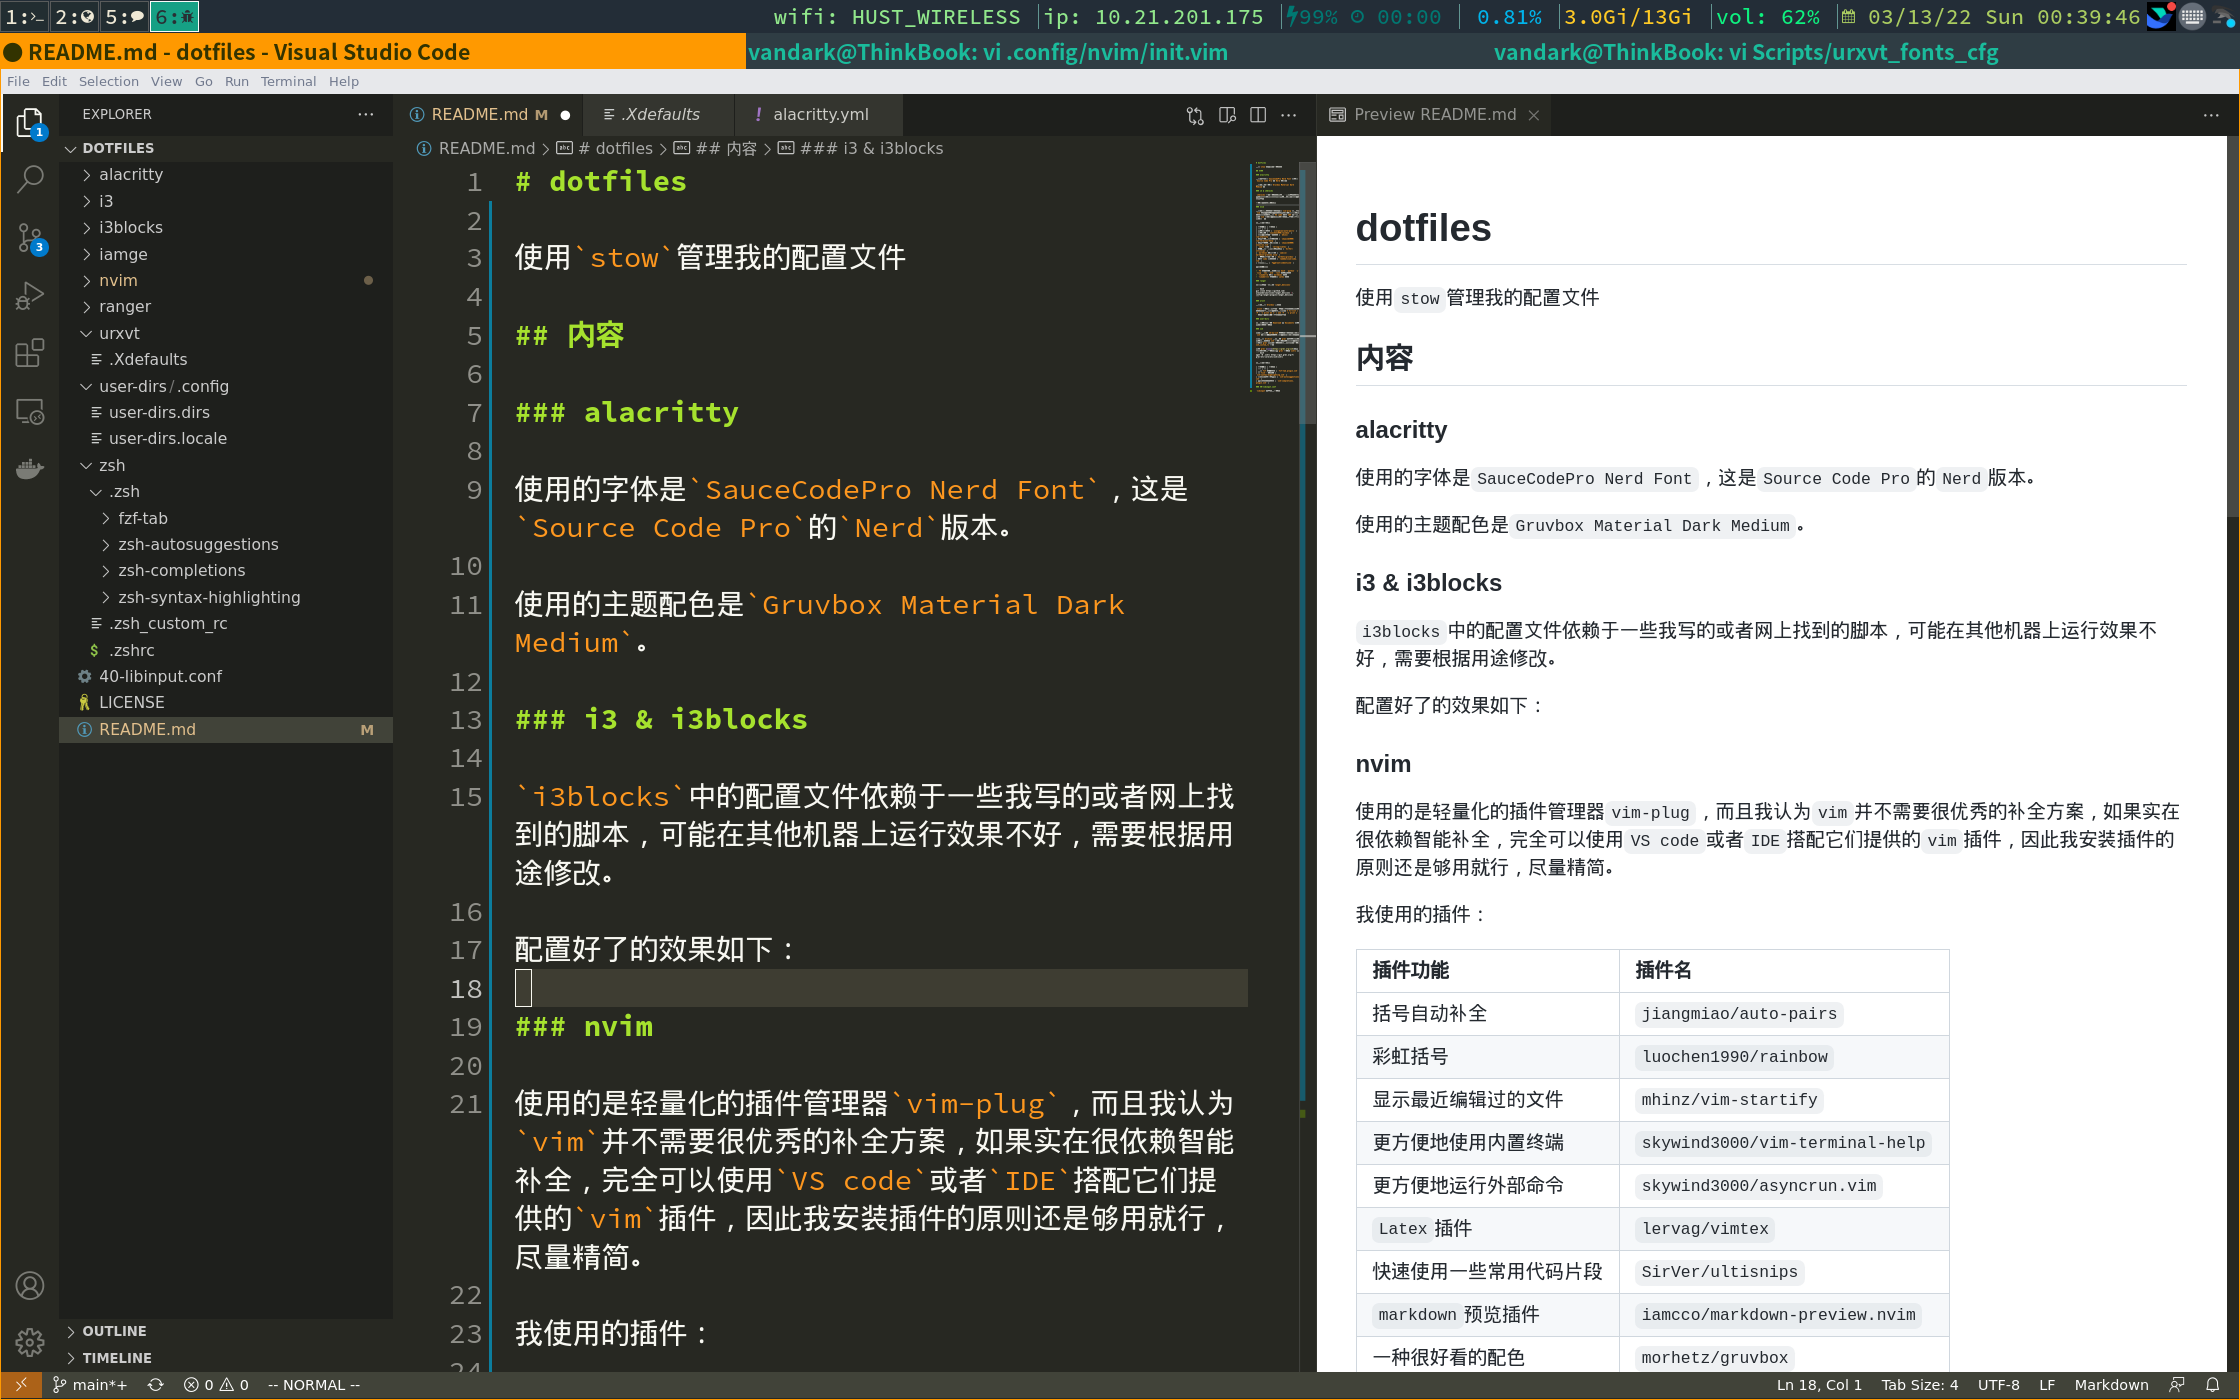
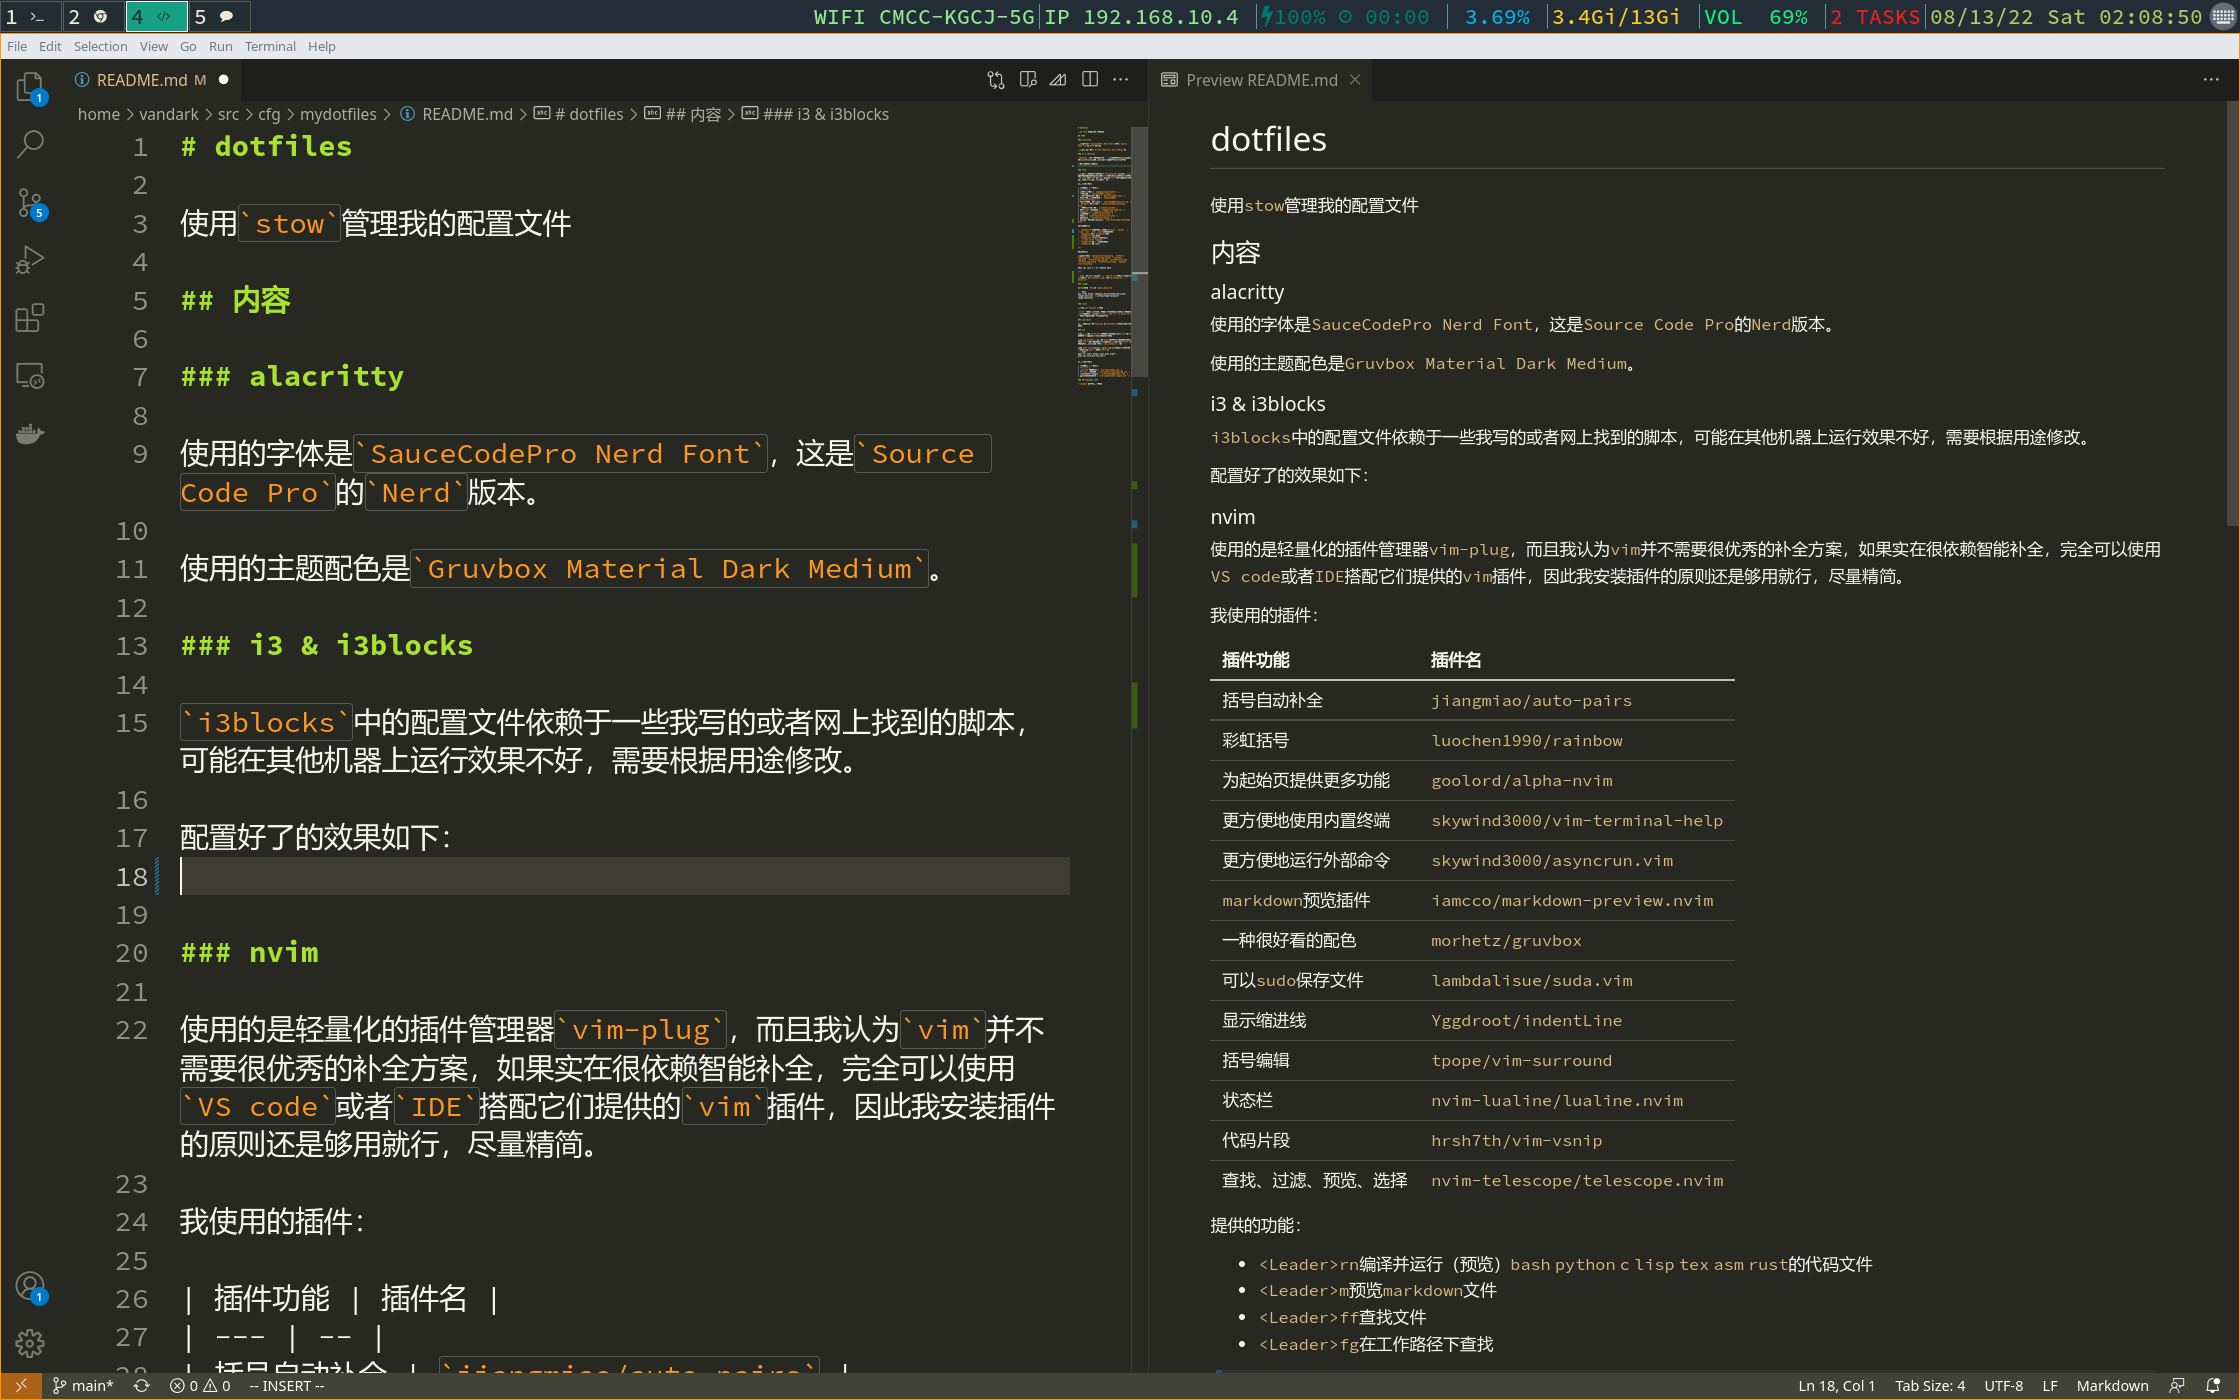
doc: update README.md

diff --git a/README.md b/README.md
@@ -19,15 +19,23 @@
 
 ### nvim
 
-使用的是轻量化的插件管理器`vim-plug`，而且我认为`vim`并不需要很优秀的补全方案，如果实在很依赖智能补全，完全可以使用`VS code`或者`IDE`搭配它们提供的`vim`插件，因此我安装插件的原则还是够用就行，尽量精简。
+使用的是轻量化的插件管理器`vim-plug`，~~而且我认为`vim`并不需要很优秀的补全方案，如果实在很依赖智能补全，完全可以使用`VS code`或者`IDE`搭配它们提供的`vim`插件，因此我安装插件的原则还是够用就行，尽量精简。~~
 
-我使用的插件：
+**补全框架真的香！**
+
+启动效果：
+
+![nvim效果图](./image/nvim-startup.png)
+
+---
+
+**我使用的插件：**
 
 | 插件功能 | 插件名 |
 | --- | -- |
 | 括号自动补全 | `jiangmiao/auto-pairs` |
 | 彩虹括号 | `luochen1990/rainbow` |
-| 显示最近编辑过的文件 | `mhinz/vim-startify` |
+| 为起始页提供更多功能 | `goolord/alpha-nvim` |
 | 更方便地使用内置终端 | `skywind3000/vim-terminal-help` |
 | 更方便地运行外部命令 | `skywind3000/asyncrun.vim` |
 | `markdown`预览插件 | `iamcco/markdown-preview.nvim` |
@@ -37,17 +45,44 @@
 | 括号编辑 | `tpope/vim-surround` |
 | 状态栏 | `nvim-lualine/lualine.nvim` |
 | 代码片段 | `hrsh7th/vim-vsnip` |
+| 查找、过滤、预览、选择 | `nvim-telescope/telescope.nvim` |
 
-提供的功能：
+**提供的功能：**
 
-- `F5`编译并运行（预览）`bash` `python` `c` `lisp` `tex` `asm` `rust`的代码文件
+- `<Leader>rn`编译并运行（预览）`bash` `python` `c` `lisp` `tex` `asm` `rust`的代码文件
 - `<Leader>m`预览`markdown`文件
+- `<Leader>ff`查找文件
+- `<Leader>fg`在工作路径下查找
+> 使用此功能需要`ripgrep`
+- `<Leader>fb`列出所有的缓冲区
+- `<Leader>fh`列出帮助
 
-代码补全：
+文件搜索效果：
+
+![文件搜索](./image/nvim-search.png)
+
+代码一键运行效果：
+![代码一键运行](./image/nvim-runcode.png)
+
+---
+
+**代码补全：**
 
 用到的插件有 `neovim/nvim-lspconfig` `hrsh7th/cmp-nvim-lsp` `hrsh7th/cmp-buffer` `hrsh7th/cmp-path` `hrsh7th/cmp-cmdline` `hrsh7th/nvim-cmp` `hrsh7th/cmp-vsnip` `hrsh7th/vim-vsnip` `neovim/nvim-lspconfig`
 
 支持 lua rust C / C++ python bash
+
+补全提示效果：
+
+![代码补全](./image/nvim-cmp.png)
+
+---
+
+**其他：**
+
+`:make` 会在当前目录下执行`./build.sh`，这只是我的个人习惯，可以删去`lua/basic.lua`中的`set.makeprg = './build.sh'`
+
+执行完`make`之后可以使用`copen`查看信息。
 
 ### ranger
 
